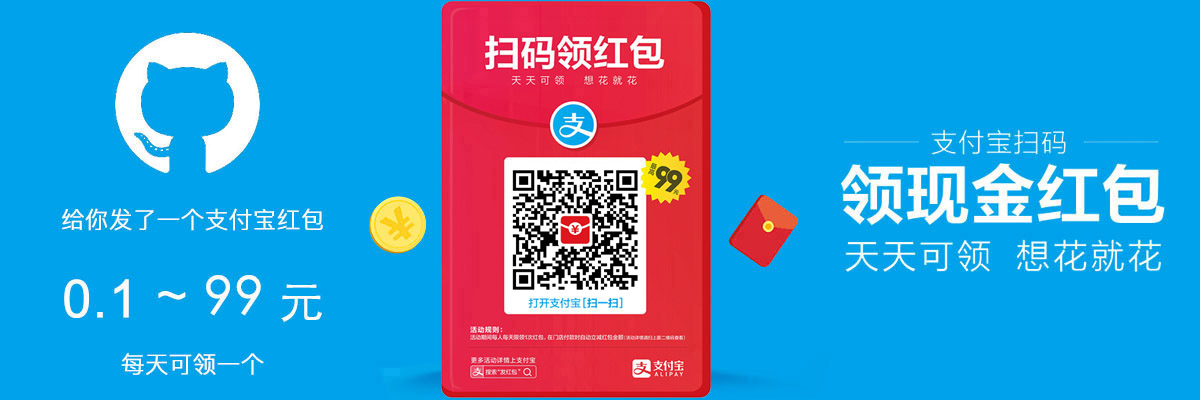
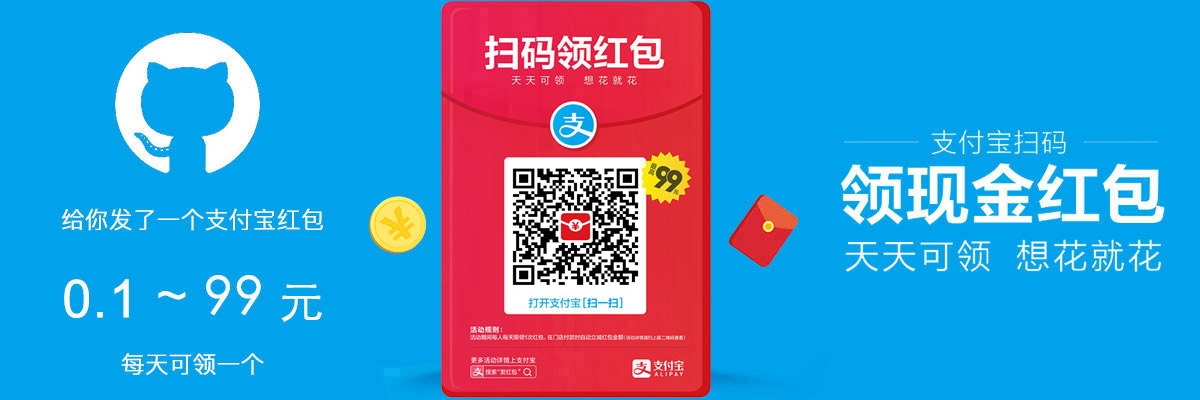
更新

Changed region(s): [[0.4008, 0.42, 0.555, 0.72]]

diff --git a/article/fuli.html b/article/fuli.html
@@ -114,17 +114,16 @@
                 <p>这次支付宝又搞活动了，给大家送红包。红包随机金额为（0.1元到99元，看运气）。该红包可以在实体店里（饭店、超市、便利店等）扫码付款时抵扣。</p>
                 <div class="tit">领取方法一</div>
                 <p>完整复制下面的红字口令，发送到微信，然后在手机上复制到粘贴板，打开支付宝，即可领取红包。</p>
-                <p><font color="red">快来领取支付宝跨年红包！1月1日起还有机会额外获得专享红包哦！复制此消息，打开最新版支付宝就能领取！GwpUGO11o3</font></p>
+                <p><font color="red">支付宝发红包啦！即日起还有机会额外获得余额宝消费红包！长按复制此消息，打开最新版支付宝就能领取！y7K16C11If</font></p>
                 <p></p>
                 <div class="tit">领取方法二</div>
                 <p>打开支付宝，“扫一扫”，扫描页面顶部或者最下面的二维码领取红包。</p>
-                <div class="tit">返现活动</div>
-                <p><font color="red"><br>扫我的红包码有返现！</font><br>从12月17日开始，凡是扫我的红包码，或者用我的口令领的支付宝红包，你<font color="red">消费抵扣</font>之后（去便利店买个棒棒糖、买瓶水、超市买个菜就能用掉）。<br>我将从我邀请你所得到的邀请奖励里面，退<font color="red">一半</font>给你，0.1起退，上不封顶。<font color="red">真实有效，大家共赢</font>。<br>已经领取并消费抵扣的朋友，请加我QQ：505397145，或者微信：zhao_linxu，备注：返现。凭付款截图联系我进行返现退款。</p>
+<!--                <div class="tit">返现活动</div>-->
+<!--                <p><font color="red"><br>扫我的红包码有返现！</font><br>从12月17日开始，凡是扫我的红包码，或者用我的口令领的支付宝红包，你<font color="red">消费抵扣</font>之后（去便利店买个棒棒糖、买瓶水、超市买个菜就能用掉）。<br>我将从我邀请你所得到的邀请奖励里面，退<font color="red">一半</font>给你，0.1起退，上不封顶。<font color="red">真实有效，大家共赢</font>。<br>已经领取并消费抵扣的朋友，请加我QQ：505397145，或者微信：zhao_linxu，备注：返现。凭付款截图联系我进行返现退款。</p>-->
 <!--
                 <div class="tit">注意</div>
                 <p><font color="red"><br>停止帮人红包套现！！！</font><br>由于帮人套现，现在本人收款码的红包抵扣功能被限制了，如果你之前扫过我的付款码套现，现在不要扫了哦。<br>付款时输入金额，如果没显示折扣，就停止付款吧。<br>已经付款的请加我微信：zhao_linxu，备注：退款。凭付款截图联系我进行退款。</p>
 -->
-<!--
                 <div class="tit">把红包变成现金方法</div>
                 <p>
                     <br>1、有的人可能平时不用支付宝付款，但是又想要红包，这里我就告诉你怎么把红包套成现金。
@@ -134,10 +133,9 @@
                     <br> 6、付款前/后加我微信：zhao_linxu，备注：套红包，付款成功后告诉我，我通过微信把钱转回给你（你付款的金额，加上红包的金额）。
                     <br> 7、这是我自己申请的商家收款码，请放心使用。
                 </p>
--->
                 <div class="tit">注意事项</div>
-                <p>1、活动截止时间：2018年3月31日。</p>
-                <p>2、红包只能在实体店里扫码付款时抵扣，扫转账支付的码不能用。</p>
+                <p>1、活动截止时间：2018年6月30日。</p>
+                <p>2、红包只能在实体店里扫<font color="red">商家码</font>付款时抵扣，扫转账支付的码不能用。</p>
                 <p>3、红包每天可以领取一个，直到活动结束。</p>
                 <p>4、红包请及时使用，如果不使用，第二天就领不了，直到三天后，这个红包失效了，才能继续领。</p>
                 <p>5、红包有效期3天，过期就会消失。</p>
@@ -163,7 +161,7 @@
             <section>
                 <ul id="da-thumbs" class="da-thumbs tuijian">
                     <li>
-                        <a href="../images/game/fuli/ma.png" rel="标题" class="b-link-stripe b-animate-go  thickbox">
+                        <a href="../images/game/fuli/ma2.png" rel="标题" class="b-link-stripe b-animate-go  thickbox">
                             <img class="img" src="../images/game/fuli/face.jpg" alt="" />
                             <img src="../images/game/null.png" alt="" />
                             <div>
@@ -192,7 +190,6 @@
                             </div>
                         </a>
                     </li>
-<!--
                     <li>
                         <a href="../images/game/fuli/3.png" rel="" class="b-link-stripe b-animate-go  thickbox">
                             <img class="img" src="../images/game/fuli/3.png" alt="" />
@@ -203,7 +200,6 @@
                             </div>
                         </a>
                     </li>
--->
                     <div class="clearfix"> </div>
                 </ul>
             </section>
